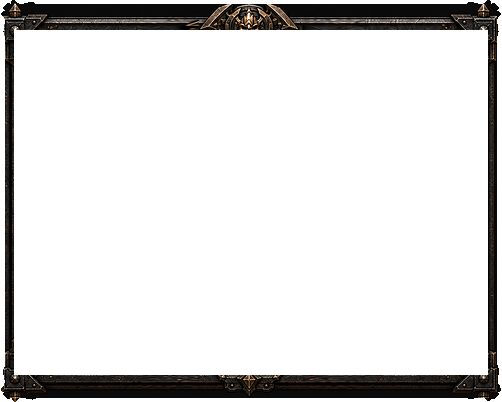
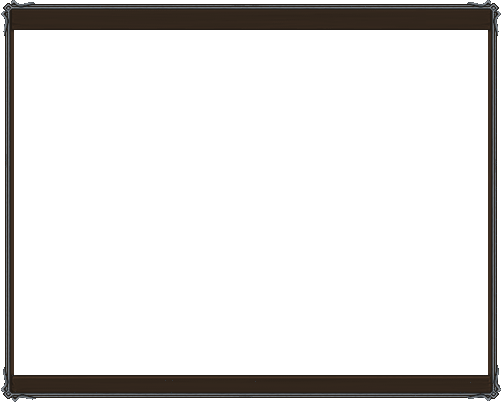
Scale shared windows and synchronize chat states

Changed region(s): [[0.0, 0.0, 1.0, 1.0]]

diff --git a/css/dwarven-forge.css b/css/dwarven-forge.css
@@ -720,7 +720,8 @@ body:not(.mobile-version) .bottomItem:hover{background-image:url(../assets-produ
 
 .border-window:not(.transparent) {
   background-color: #111416;
-  background-image: radial-gradient(circle at 50% 0, #28211b 0, #151719 45%, #090b0c 100%);
+  background-image: url(../assets-production/lupus.margonem.pl/img/gui/dwarven-forge/panel-surface.png);
+  background-repeat: repeat;
 }
 
 .border-window .content,
@@ -728,7 +729,8 @@ body:not(.mobile-version) .bottomItem:hover{background-image:url(../assets-produ
 .border-window.mAlert-mobile-layer .paper-background {
   color: var(--df-ivory);
   background-color: #111315;
-  background-image: linear-gradient(135deg, #1c1a18 0, #101315 45%, #171210 100%);
+  background-image: url(../assets-production/lupus.margonem.pl/img/gui/dwarven-forge/panel-surface.png);
+  background-repeat: repeat;
 }
 
 .border-window .content a {
@@ -737,10 +739,7 @@ body:not(.mobile-version) .bottomItem:hover{background-image:url(../assets-produ
 
 .border-window .header-label-positioner .header-label,
 .trade-window header .h_background .middle {
-  background-color: #17191a;
-  background-image: linear-gradient(#34302b 0, #17191a 28%, #090b0c 72%, #251a12 100%);
-  border-color: #76502d;
-  box-shadow: inset 0 1px #b88950, inset 0 2px #4c3825, inset 0 -1px #050606, 0 1px 4px #000;
+  color: var(--df-gold-bright);
 }
 
 .border-window .header-label-positioner .header-label .text,
@@ -941,7 +940,8 @@ body:not(.mobile-version) .bottomItem:hover{background-image:url(../assets-produ
 .skills-window .right-column .scroll-pane {
   color: var(--df-ivory);
   background-color: #101315;
-  background-image: linear-gradient(145deg, #211b17 0, #111416 52%, #1e1013 100%);
+  background-image: url(../assets-production/lupus.margonem.pl/img/gui/dwarven-forge/panel-surface.png);
+  background-repeat: repeat;
 }
 
 .skills-window .left-column .list-label-wrapper,
@@ -953,73 +953,22 @@ body:not(.mobile-version) .bottomItem:hover{background-image:url(../assets-produ
 .skills-window .right-column .description-wrapper,
 .skills-window .right-column .board-wrapper {
   color: var(--df-ivory);
-  background-color: #151719;
   border-color: #513923;
 }
 
-.skills-window .left-column .skills-wrapper .description-wrapper:nth-of-type(odd) {
-  background-color: #211719;
-}
-
-:is(
-  .skills-window,
-  .quest-log,
-  .addons-panel,
-  .mail-box,
-  .mails-window,
-  .auctions,
-  .clan,
-  .trade-window,
-  .shop-wrapper,
-  .depo,
-  .friend-enemy-list,
-  .help-window2,
-  .settings-window,
-  .recovery-item,
-  .gold-shop,
-  .premium-panel,
-  .loot-window,
-  .battle-controller,
-  .showcase,
-  .item-changer,
-  .achievement-panel,
-  .news-panel,
-  .motel-window,
-  .divide-panel,
-  .left-grouped-list-and-right-description-window
-) {
+.border-window:not(.transparent),
+.left-grouped-list-and-right-description-window {
   color: var(--df-ivory);
   background-color: #101315;
+  background-image: url(../assets-production/lupus.margonem.pl/img/gui/dwarven-forge/panel-surface.png);
+  background-repeat: repeat;
 }
 
-:is(
-  .skills-window,
-  .quest-log,
-  .addons-panel,
-  .mail-box,
-  .mails-window,
-  .auctions,
-  .clan,
-  .trade-window,
-  .shop-wrapper,
-  .depo,
-  .friend-enemy-list,
-  .help-window2,
-  .settings-window,
-  .recovery-item,
-  .gold-shop,
-  .premium-panel,
-  .loot-window,
-  .showcase,
-  .item-changer,
-  .achievement-panel,
-  .news-panel,
-  .motel-window,
-  .divide-panel,
-  .left-grouped-list-and-right-description-window
-) :is(.left-column, .right-column, .middle-column, .column) {
+:is(.border-window:not(.transparent), .left-grouped-list-and-right-description-window)
+  :is(.left-column, .right-column, .middle-column, .column) {
   background-color: #111416;
-  background-image: linear-gradient(145deg, #211b17 0, #111416 48%, #1d1113 100%);
+  background-image: url(../assets-production/lupus.margonem.pl/img/gui/dwarven-forge/panel-surface.png);
+  background-repeat: repeat;
   border-color: #5d4228;
 }
 
@@ -1055,7 +1004,8 @@ body:not(.mobile-version) .bottomItem:hover{background-image:url(../assets-produ
 .interface-element-middle-3-background-stretch {
   color: var(--df-ivory);
   background-color: #111416;
-  background-image: linear-gradient(145deg, #211b17 0, #111416 52%, #1d1113 100%);
+  background-image: url(../assets-production/lupus.margonem.pl/img/gui/dwarven-forge/panel-surface.png);
+  background-repeat: repeat;
 }
 
 .interface-element-bottom-bar-background,
@@ -1096,9 +1046,53 @@ body:not(.mobile-version) .bottomItem:hover{background-image:url(../assets-produ
   color: #fff0cf;
 }
 
+.interface-element-active-card-border-image,
+.interface-element-active-card-background-stretch {
+  background: none;
+  border-style: solid;
+  border-width: 0 28px;
+  border-image: url(../assets-production/lupus.margonem.pl/img/gui/dwarven-forge/inner-header.png) 0 48 fill stretch;
+}
+
+.interface-element-active-card-border-image {
+  position: relative;
+}
+
+.interface-element-active-card-background {
+  position: relative;
+  background: url(../assets-production/lupus.margonem.pl/img/gui/dwarven-forge/inner-header.png) center / 100% 100% no-repeat;
+}
+
+.main-header :is(.interface-element-active-card-border-image, .interface-element-active-card-background, .interface-element-active-card-background-stretch)::before,
+.header-bar :is(.interface-element-active-card-border-image, .interface-element-active-card-background, .interface-element-active-card-background-stretch)::before,
+.section-header :is(.interface-element-active-card-border-image, .interface-element-active-card-background, .interface-element-active-card-background-stretch)::before,
+.table-header :is(.interface-element-active-card-border-image, .interface-element-active-card-background, .interface-element-active-card-background-stretch)::before,
+.cards-header-wrapper :is(.interface-element-active-card-border-image, .interface-element-active-card-background, .interface-element-active-card-background-stretch)::before,
+.points-header-wrapper :is(.interface-element-active-card-border-image, .interface-element-active-card-background, .interface-element-active-card-background-stretch)::before,
+.list-label-wrapper :is(.interface-element-active-card-border-image, .interface-element-active-card-background, .interface-element-active-card-background-stretch)::before,
+.addon-header :is(.interface-element-active-card-border-image, .interface-element-active-card-background, .interface-element-active-card-background-stretch)::before,
+.interface-element-header-1-background::before,
+.interface-element-header-1-background-stretch::before {
+  content: "";
+  pointer-events: none;
+  width: 126px;
+  height: 31px;
+  position: absolute;
+  top: 50%;
+  left: 50%;
+  background: url(../assets-production/lupus.margonem.pl/img/gui/dialogue/dialogi.png) 0 0 no-repeat;
+  transform: translate(-50%, -50%);
+}
+
 .interface-element-card-background,
 .interface-element-card-background-stretch {
   color: var(--df-muted);
+}
+
+.interface-element-card-background,
+.interface-element-card-background-stretch {
+  background: url(../assets-production/lupus.margonem.pl/img/gui/dwarven-forge/inner-header.png) center / 100% 100% no-repeat;
+  filter: saturate(.65) brightness(.72);
 }
 
 .interface-element-border-window-header-middle,
@@ -1113,6 +1107,22 @@ body:not(.mobile-version) .bottomItem:hover{background-image:url(../assets-produ
 .interface-element-table-3 .table-header-tr td {
   color: var(--df-gold-bright);
   text-shadow: 0 1px 2px #000;
+}
+
+.interface-element-header-1-background,
+.interface-element-header-1-background-stretch {
+  background: none;
+  border-style: solid;
+  border-width: 0 28px;
+  border-image: url(../assets-production/lupus.margonem.pl/img/gui/dwarven-forge/inner-header.png) 0 48 fill stretch;
+}
+
+.interface-element-header-1-background {
+  position: relative;
+}
+
+.interface-element-table-header-1-background {
+  background: url(../assets-production/lupus.margonem.pl/img/gui/dwarven-forge/inner-header.png) center / 100% 100% no-repeat;
 }
 
 .interface-element-header-1,

diff --git a/install/dwarven-forge.user.js b/install/dwarven-forge.user.js
@@ -1,7 +1,7 @@
 // ==UserScript==
 // @name         Margonem Dwarven Forge UI
 // @namespace    doiua97
-// @version      1.0.8
+// @version      1.0.9
 // @description  Installs the complete Dwarven Forge dark fantasy UI theme for Margonem.
 // @match        https://margonem.pl/*
 // @match        https://*.margonem.pl/*
@@ -15,7 +15,7 @@
   const link = document.createElement("link");
   link.id = "dwarven-forge-ui-theme";
   link.rel = "stylesheet";
-  link.href = "https://fastly.jsdelivr.net/gh/Doiua97/margonem-dwarven-forge-ui@v1.0.8/css/dwarven-forge.css";
+  link.href = "https://fastly.jsdelivr.net/gh/Doiua97/margonem-dwarven-forge-ui@v1.0.9/css/dwarven-forge.css";
 
   const mount = () => {
     if (link !== document.head.lastElementChild) document.head.appendChild(link);

diff --git a/README.md b/README.md
@@ -1,4 +1,4 @@
-# Margonem Dwarven Forge UI 1.0.8
+# Margonem Dwarven Forge UI 1.0.9
 
 Dwarven Forge przebudowuje klasyczny interfejs Margonem w stylu mrocznej krasnoludzkiej kuźni. Motyw używa czernionej stali, starego brązu, głębokiego burgundu, ciemnego drewna i oszczędnych turkusowych akcentów.
 
@@ -20,7 +20,7 @@ Userscript nie modyfikuje mechaniki gry. Dołącza wersjonowany arkusz CSS, któ
 - walka, zadania, kalendarze i okna systemowe;
 - kolory tekstu, nagłówków, formularzy oraz stanów aktywnych i nieaktywnych.
 
-Wersja 1.0.8 używa wyłącznie warstwy zmian motywu zbudowanej pod aktualny arkusz klienta Margonem. Motyw podmienia 95 grafik dekoracyjnych, w tym HUD, atlasy widgetów oraz atlas umiejętności z zachowaną siatką 10×21. Atlasy funkcyjne zachowują oryginalną kolejność i współrzędne, dlatego ikony pozostają przypisane do właściwych działań. Natywne ramki jakości przedmiotów oraz ikony walut pozostają obsługiwane przez klienta gry.
+Wersja 1.0.9 używa wyłącznie warstwy zmian motywu zbudowanej pod aktualny arkusz klienta Margonem. Motyw podmienia 95 grafik dekoracyjnych, w tym HUD, atlasy widgetów oraz atlas umiejętności z zachowaną siatką 10×21. Atlasy funkcyjne zachowują oryginalną kolejność i współrzędne, dlatego ikony pozostają przypisane do właściwych działań. Natywne ramki jakości przedmiotów oraz ikony walut pozostają obsługiwane przez klienta gry.
 
 ## Struktura
 
